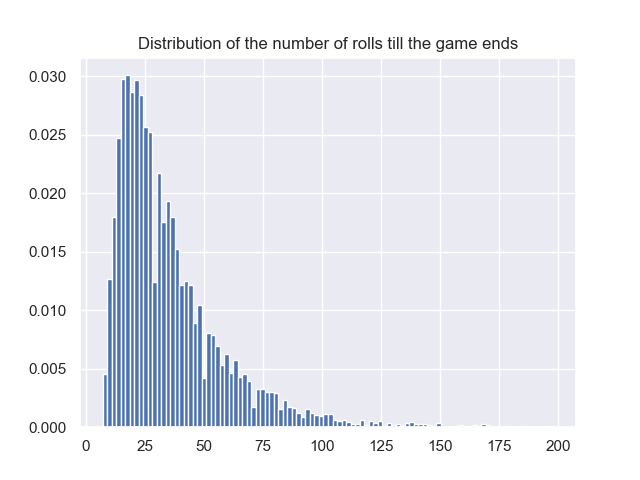
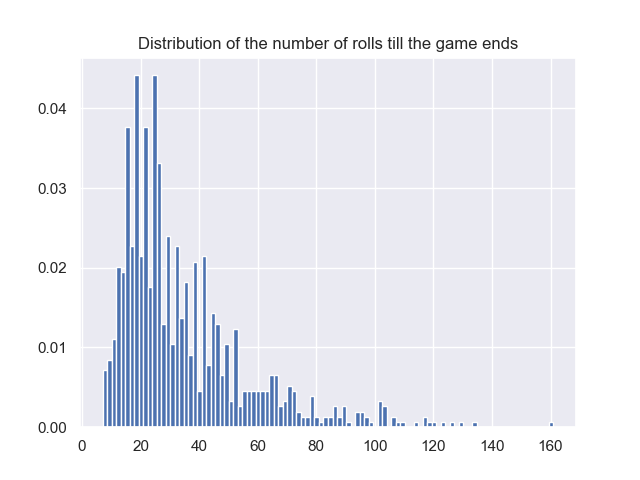
PS3 Q1 done

diff --git a/Problem Sets/Assignment_3/Problem Set 3.tex b/Problem Sets/Assignment_3/Problem Set 3.tex
@@ -1,0 +1,61 @@
+\documentclass[11pt]{article}
+
+% Load package
+\usepackage{../lesson}
+\setcounter{MaxMatrixCols}{20}
+
+% Set title and course name
+\settitle{Problem Set 3}
+\setsubtitle{MDP and Dynamic Programmings}
+\setcourse{CME241 - Reinforcement Learning for Finance}
+\setdate{Due: 23.01.2023}
+
+\begin{document}
+
+% Create title and add proper header for first page
+\maketitle
+\thispagestyle{first}
+
+\section{Analytic Optimal Actions and Cost}
+\begin{align}
+    s\in{\mathcal{S}}&,\quad \mathcal{S} = \mathbb{R}\\
+    a\in{\mathcal{A}}&,\quad \mathcal{A} = \mathbb{R}
+\end{align}
+
+We also have that $s' \sim \mathcal{N}(s, \sigma^2)$. 
+
+Our goal is to minimize the Infinite-Horizeon Expected Discounted Sum of Costs. To do this we define:
+$$
+C = \sum_{i=0}^\infty \gamma^ie^{as'_i}
+$$
+We can they say that since $\gamma = 0$ all future costs are ignored giving:
+$$
+C = e^{as'_0}
+$$
+The expectation of this is thus:
+$$
+\E{C} = \E{e^{as'_0}}
+$$
+
+We also know that $s'\sim\mathcal{N}(s, \sigma^2)$ giving $as'\sim\mathcal{N}(as, a^2\sigma^2)$. This gives us a distribution for the exponential as the log-Normal distribution $\sim logNormal(as', a^2\sigma^2)$
+
+This gives us a closed form expectations:
+$$
+\E{C} = e^{as + \frac{a^2\sigma^2}{2}}
+$$
+Minimizing this cost:
+\begin{align}
+    \min_{a\in\mathcal{A}} \E{C} &= \min_{a\in\mathcal{A}} e^{as + \frac{a^2\sigma^2}{2}}\\
+    &= \min_{a\in\mathcal{A}} as + \frac{a^2\sigma^2}{2} \\
+    \frac{\partial}{\partial a}\left(as + \frac{a^2\sigma^2}{2}\right) &= s + a\sigma^2 \\
+    \text{giving optimality as}\quad a &= -\frac{s}{\sigma^2}\\
+    \text{the optimal policy therefore leads to }\quad \E{C} &= e^{as + \frac{a^2\sigma^2}{2}} \\
+    &= e^{-\frac{s^2}{\sigma^2} + \frac{s^2\sigma^2}{\sigma^4}} \\
+    &= e^{-\frac{s^2}{2\sigma^2}}
+\end{align}
+
+%----------------------------------------------
+\newpage
+\section{Manual Value Iteration}
+
+\end{document}

diff --git a/Problem Sets/Assignment_2/Problem Set 2.tex b/Problem Sets/Assignment_2/Problem Set 2.tex
@@ -1,7 +1,7 @@
 \documentclass[11pt]{article}
 
 % Load package
-\usepackage{lesson}
+\usepackage{../lesson}
 \setcounter{MaxMatrixCols}{20}
 
 % Set title and course name
@@ -77,10 +77,14 @@ The expected number of jumps for this process is $2.93$. This can be calculated 
 \end{align}
 
 \subsection{Closed Form for Expected Jumps}
-The closed form for the number of expected jumps is found by plugging in the solution for each value function to the following equation:
-$$
-V(S) = 1 + \frac{1}{10}\left(V(1) + V(2) + V(3) + V(4) + V(5) + V(6) + V(7) + V(8) + V(9) + V(E) \right)
-$$
+When solving the above form we find the closed form solution mirrors a harmonic sequence:
+\begin{align}
+    V(9) &= 1 \\
+    V(8) &= 1 + \frac{1}{2} \\
+    V(7) &= 1 + \frac{1}{2} + \frac{1}{3} \\
+    V(6) &= ... \\
+    V(0) &= \sum_{i=1}^n \frac{1}{n}
+\end{align}
 
 \newpage
 \section{MDP}
@@ -108,12 +112,17 @@ Since we have an infinite process we also know that $V^*(s) = V^*(s+1)$, giving:
 \end{align}
 Combining this gives us the value function as:
 \begin{align}
-    V^*(s) = \max_{a\in\mathcal{A}} \left\{1 + a - 2a^2 + \gamma V^*(s) \right\}
+    V^*(s) = \max_{a\in\mathcal{A}} \left\{1 + a - 2a^2 + \gamma V^*(s) \right\}\\
+    V^*(s)(1 - \gamma) &= 1 + a  - 2a^2 \\
+    V^*(s) = &= 2 * (1 + a - 2a^2)
 \end{align}
 Optimising this with respect to $a$, we take the partial derivative w.r.t. $a$:
 $$
-\frac{\partial}{\partial a} 1 + a - 2a^2 + \gamma V^*(s) = 1 - 4a
+\frac{\partial}{\partial a} 2 + 2a - 4a^2 = 2 - 8a = 0
 $$
-Clearly this has a negative relationship with $a$, so to maximise the original function we just set $a$ as low as possible (we couldn't have set the partial to zero as $a$ is lower bounded by 0). With $a=0$ we have the optimal policy and the maximum of the value function.
+Solving this gives:
+$$
+a = \frac{1}{4}; V^*(s) = \frac{9}{4}
+$$
 
 \end{document}

diff --git a/Problem Sets/Assignment_2/Assignment2.py b/Problem Sets/Assignment_2/Assignment2.py
@@ -52,7 +52,9 @@ if question == 1 or question == 0:
                 value.probabilities[outcome] = 1/6
             if outcome.square > 100:
                 del value.probabilities[outcome]
-
+                for outcome_sub, prob in value.probabilities.items():
+                    if outcome_sub.square == 100:
+                        prob += 1/6
 
     SnakesAndLaddersGame = FiniteMarkovProcess(Transition)
 
@@ -60,7 +62,7 @@ if question == 1 or question == 0:
     # Always start on square 0
     starting_distribution = Categorical({NonTerminal(StateSL(0)):1})
 
-    num_traces = 10000
+    num_traces = 1000
 
     # Get the python generate
     traces = itertools.islice(SnakesAndLaddersGame.traces(starting_distribution), num_traces)
@@ -99,6 +101,9 @@ if question == 1 or question == 0:
                 value.probabilities[outcome] = 1/6
             if outcome[0].square > 100:
                 del value.probabilities[outcome]
+                for outcome_sub, prob in value.probabilities.items():
+                    if outcome_sub[0].square == 100:
+                        value.probabilities[outcome_sub] += 1/6
 
     SnakesAndLaddersRewardGame = FiniteMarkovRewardProcess(TransitionReward)
 
